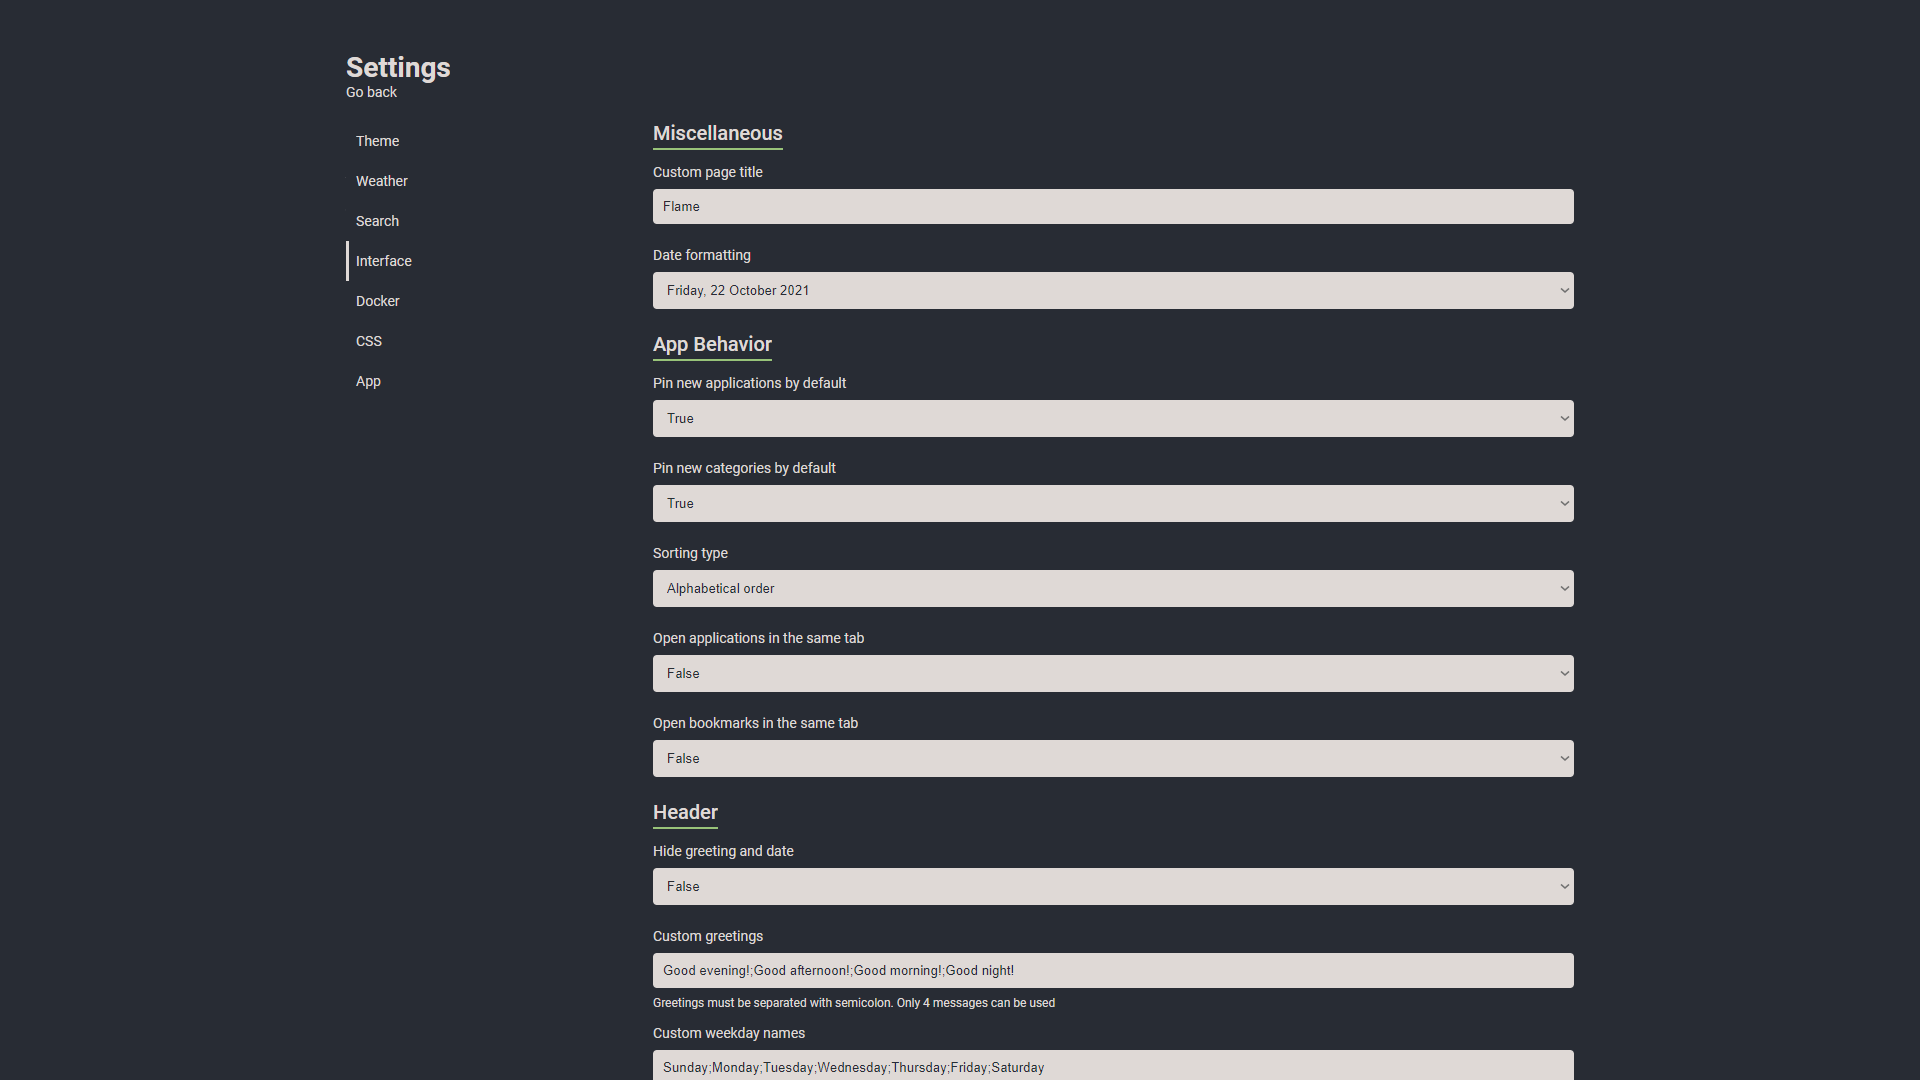
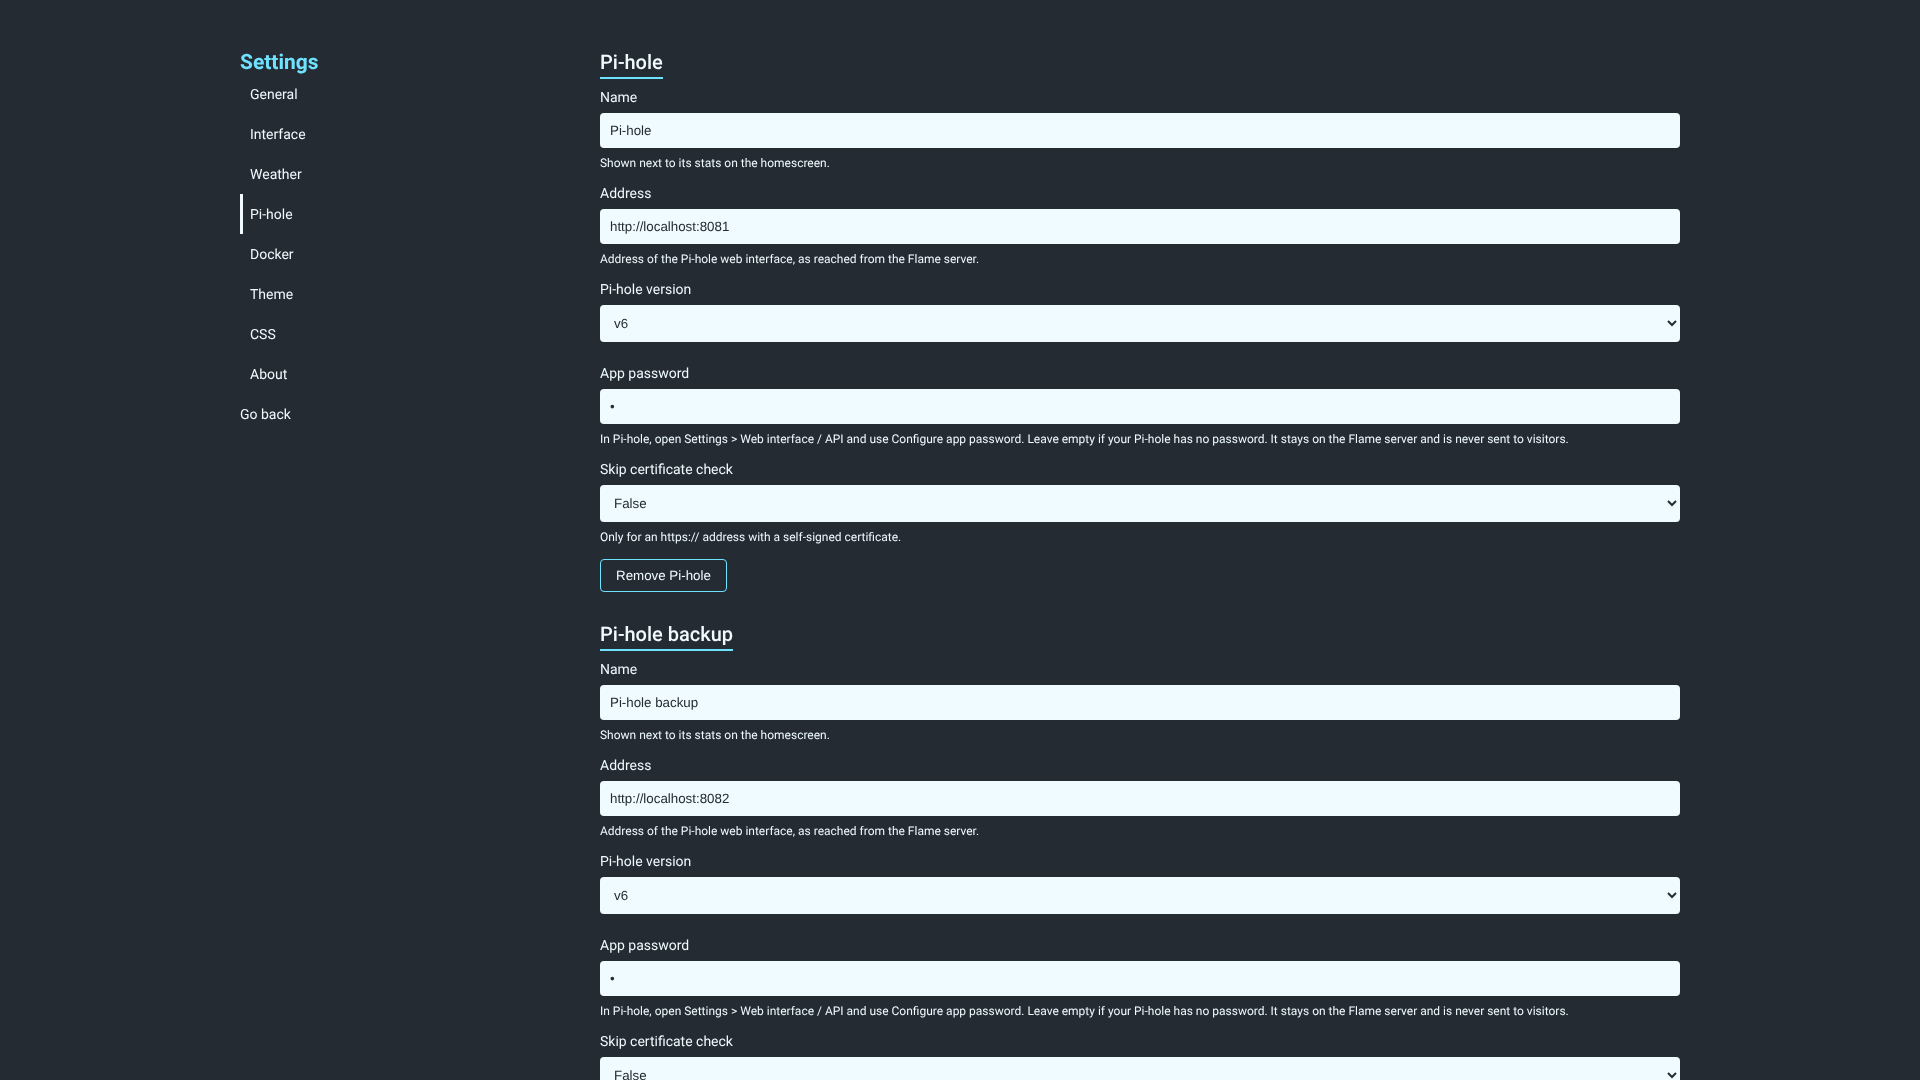
fix: first-start theme, protected-route reload, k8s manifest; new screenshots
- server.js: normalize the default theme again after migrations. On a
  fresh install, migration 01_new-config rewrote config.json from
  initialConfig.json after initApp had converted "tron" to its colors,
  so new visitors got an unstyled page until the next restart.
- Client: ProtectedRoute waits while a stored token is being validated,
  instead of redirecting a logged-in admin who reloads /applications or
  /bookmarks to the homescreen. authError now dispatches its action so
  the check also ends when the token is invalid.
- k8s/base: use alexstapo/flame-revamped and read PASSWORD from a
  Secret named "flame". The old manifest used shokohsc/flame and set no
  password, so Flame refused to start.
- New README screenshots from the current app (sample data, two fake
  Pi-holes). README and CHANGELOG (Unreleased) updated to match.

Claude-Session: https://claude.ai/code/session_01JRPhzer5mhongLcnxTN2pH

diff --git a/client/src/store/reducers/auth.ts b/client/src/store/reducers/auth.ts
@@ -4,11 +4,15 @@ import { ActionType } from '../action-types';
 interface AuthState {
   isAuthenticated: boolean;
   token: string | null;
+  // True while a stored token is being validated on page load (autoLogin).
+  // Protected routes wait for it instead of redirecting a logged-in admin.
+  checking: boolean;
 }
 
 const initialState: AuthState = {
   isAuthenticated: false,
   token: null,
+  checking: Boolean(localStorage.getItem('token')),
 };
 
 export const authReducer = (
@@ -21,6 +25,7 @@ export const authReducer = (
         ...state,
         token: action.payload,
         isAuthenticated: true,
+        checking: false,
       };
 
     case ActionType.logout:
@@ -28,6 +33,7 @@ export const authReducer = (
         ...state,
         token: null,
         isAuthenticated: false,
+        checking: false,
       };
 
     case ActionType.autoLogin:
@@ -35,6 +41,7 @@ export const authReducer = (
         ...state,
         token: action.payload,
         isAuthenticated: true,
+        checking: false,
       };
 
     case ActionType.authError:
@@ -42,6 +49,7 @@ export const authReducer = (
         ...state,
         token: null,
         isAuthenticated: false,
+        checking: false,
       };
 
     default:

diff --git a/server.js b/server.js
@@ -17,6 +17,7 @@ const Sockets = require('./Sockets');
 
 // Utils
 const initApp = require('./utils/init');
+const normalizeTheme = require('./utils/init/normalizeTheme');
 const Logger = require('./utils/Logger');
 const logger = new Logger();
 
@@ -54,6 +55,12 @@ const logger = new Logger();
   // Init app
   await initApp();
   await connectDB();
+  // On a fresh install, migration 01_new-config rewrites config.json from
+  // initialConfig.json after initApp has normalized it, putting the theme
+  // name ("tron") back. The client expects "primary;accent;background", so
+  // without this second pass new visitors get an unstyled page until the
+  // next restart. A no-op once the theme is already normalized.
+  await normalizeTheme();
   await associateModels();
   await jobs();
 

diff --git a/client/src/components/Routing/ProtectedRoute.tsx b/client/src/components/Routing/ProtectedRoute.tsx
@@ -8,7 +8,12 @@ interface Props {
 
 export const ProtectedRoute = ({ children }: Props): JSX.Element => {
   const isAuthenticated = useSelector((state: State) => state.auth.isAuthenticated);
+  const checking = useSelector((state: State) => state.auth.checking);
   const location = useLocation();
+
+  // A stored token is still being validated. Redirecting now would send a
+  // logged-in admin who reloads /applications or /bookmarks to the homescreen.
+  if (checking) return <></>;
 
   if (!isAuthenticated) {
     // not authenticated => homepage

diff --git a/client/src/store/action-creators/auth.ts b/client/src/store/action-creators/auth.ts
@@ -73,6 +73,9 @@ export const authError =
   (dispatch: Dispatch<AuthErrorAction>) => {
     const apiError = error as HttpError;
 
+    // Ends the token check, so ProtectedRoute stops waiting.
+    dispatch({ type: ActionType.authError });
+
     if (showNotification) {
       dispatch<any>({
         type: ActionType.createNotification,

diff --git a/README.md b/README.md
@@ -92,11 +92,17 @@ A commented example with Docker secrets is in [.docker/docker-compose.yml](.dock
 
 ### Kubernetes
 
-Kustomize manifests are in [k8s/base](k8s/base): a namespace, deployment, service, ingress, and a read-only service account for ingress discovery. Treat them as a starting point. Before you apply them:
+Kustomize manifests are in [k8s/base](k8s/base): a namespace, deployment, service, ingress, and a read-only service account for ingress discovery. Treat them as a starting point:
 
-- set the deployment's `image` to `alexstapo/flame-revamped:<tag>`,
-- give the container a `PASSWORD` environment variable, for example from a Secret,
-- replace the `emptyDir` data volume with a PersistentVolumeClaim, or your data is lost when the pod is replaced.
+- The deployment reads `PASSWORD` from a Secret named `flame`, which you create yourself (see below).
+- The data volume is an `emptyDir`, so data is lost when the pod is replaced. Replace it with a PersistentVolumeClaim for real use.
+- The image is `alexstapo/flame-revamped:latest`. Pin a version tag if you prefer.
+
+```sh
+kubectl create namespace flame
+kubectl -n flame create secret generic flame --from-literal=password='<strong password>'
+kubectl apply -k k8s/base
+```
 
 ### Without Docker
 

diff --git a/CHANGELOG.md b/CHANGELOG.md
@@ -1,3 +1,12 @@
+### Unreleased
+**Fixes**
+- On a fresh install, the first start left the default theme as a name ("tron") instead of its colors, so new visitors got an unstyled white page until Flame was restarted. Migration `01_new-config` rewrote `config.json` after the theme had been converted. The theme is now converted again after migrations run.
+- Reloading `/applications` or `/bookmarks` while logged in no longer sends you to the homescreen. The page now waits for the stored login to be checked before deciding.
+- The Kubernetes manifest in `k8s/base` now uses the `alexstapo/flame-revamped` image and reads `PASSWORD` from a Secret named `flame`. Before, it used an old upstream image and set no password, so Flame refused to start.
+
+**Docs**
+- The README is rewritten for 1.9.0, with new screenshots. Docker secrets, Kubernetes and the image build are described as they actually work.
+
 ### v1.9.0 (2026-10-10)
 Pi-hole widget for one or more Pi-holes, v5 and v6. Setup steps are in the README under "Setting up the Pi-hole widget".
 
